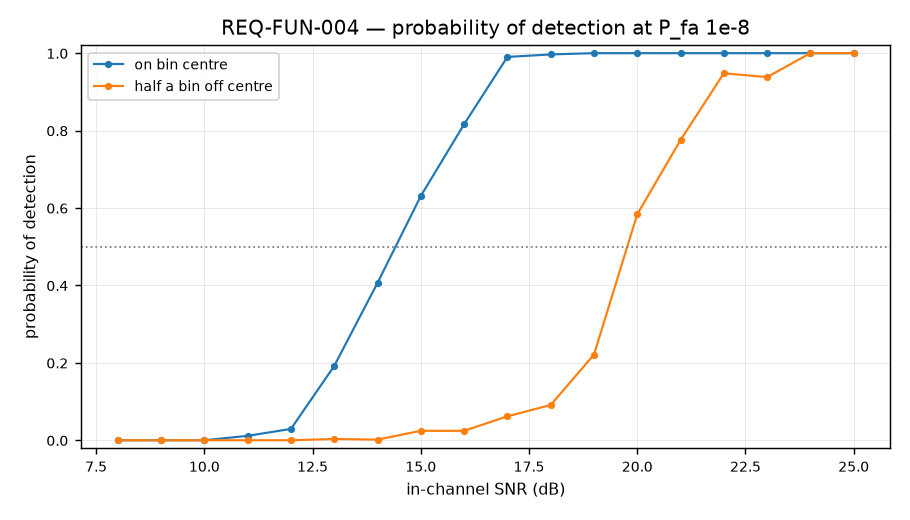
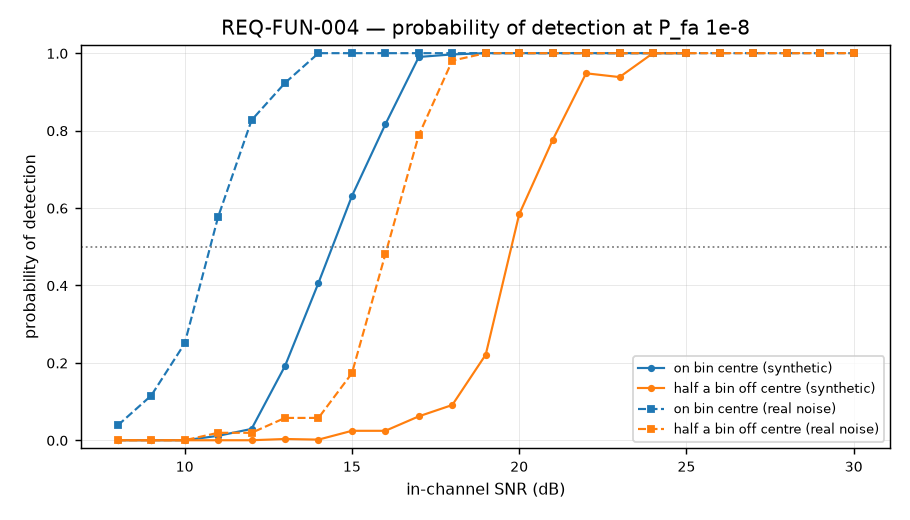
feat(vv): measure detection probability against real receiver noise (#80)
An external review of this repo raised a specific, correctly-reasoned concern:
the two-hour real-noise run reporting zero false alarms over 2.88e10 cells at
a 1e-8 design point is, by rule-of-three, consistent with an operating rate
near 1e-10 -- two orders of magnitude under design. Pfa alone cannot
distinguish a well-tuned detector from a deaf one; both report zero false
alarms. Only Pd can answer that, and this project had never measured Pd
against anything but synthetic Gaussian noise.

Added a real-noise Pd(SNR) sweep to esm446-vv: a synthetic tone is injected
into tests/data/receiver_noise_lna32_vga20.cs8 (real captured receiver noise,
antenna disconnected) at a controlled in-channel SNR, referenced against that
window's own noise floor measured from the same reference-cell span (channels
6-34) the CFAR threshold itself reads -- not a wideband time-domain RMS, which
would be inflated by the local-oscillator spur at bin 0 and understate every
SNR in the sweep. 52 overlapping windows, 23 SNR points, both offsets, ~55s.

Result: real noise reaches Pd=0.5 at a *lower* SNR than synthetic noise does
(11.0 dB vs 15.0 dB on-centre, 17.0 dB vs 20.0 dB off-centre), not a higher
one. The detector is not deaf. Documented with the caveat this genuinely
needs: one real capture, receiver-only (the easy case), not yet repeated
against the harder ambient/antenna-connected vector. Full reasoning and the
open question (why real noise appears lighter-tailed than the exponential
[…]

diff --git a/esm446/vv.py b/esm446/vv.py
@@ -18,6 +18,7 @@ from __future__ import annotations
 import argparse
 import json
 import logging
+import math
 import sys
 from pathlib import Path
 from typing import Any
@@ -181,8 +182,93 @@ def figure_false_alarm_rate(results: dict[str, Any]) -> None:
     ]
 
 
+#: Real receiver noise, antenna disconnected -- see tests/test_false_alarm_on_real_noise.py.
+#: Same vector the shipped-default zero-false-alarm result uses, so the two are the same
+#: operating point measured two ways: does nothing fire on it, and does a real signal cut
+#: through it at the SNR the synthetic-noise curve predicts.
+_REAL_NOISE_PATH = Path("tests/data/receiver_noise_lna32_vga20.cs8")
+
+
+def _real_noise_iq() -> np.ndarray | None:
+    """Raw IQ from the committed receiver-noise vector, or None if it is not present."""
+    if not _REAL_NOISE_PATH.exists():
+        return None
+    raw = np.fromfile(_REAL_NOISE_PATH, dtype=np.int8)
+    return (raw.astype(np.float32) / 128.0).view(np.complex64)
+
+
+def _tone_gain(window: int) -> float:
+    """Channel-20 power produced by a unit-amplitude tone, for converting SNR to amplitude.
+
+    Calibrated once against the channeliser itself rather than assumed, so it is exactly
+    right for this configuration instead of approximately right from a formula.
+    """
+    t = np.arange(window) / CONFIG.sample_rate
+    tone = np.exp(2j * np.pi * 20 * CONFIG.channel_spacing * t).astype(np.complex64)
+    spectra = PolyphaseChannelizer(CONFIG).process(tone)
+    power = (np.abs(spectra[1000:]) ** 2).astype(np.float64)
+    return float(power[:, 20].mean())
+
+
+def _real_noise_floor(noise: np.ndarray, start: int, window: int) -> float:
+    """This window's own in-channel noise floor, away from the DC spur and the target bins.
+
+    Computed from the real receiver noise alone, before any tone is added -- the reference
+    the injected tone's SNR is measured against, not a wideband time-domain RMS. Wideband RMS
+    would be dominated by the local-oscillator spur at bin 0 (28 dB over the floor, per
+    tests/test_false_alarm_on_real_noise.py) and so would systematically overstate the noise
+    the target channel actually carries, making every SNR in this sweep too generous.
+
+    Read from bins 6-34, the same reference-cell span `CfarConfig`'s defaults (24 reference
+    cells, 2 guard either side) actually use to threshold channel 20 -- not some other, more
+    convenient part of the spectrum. A receiver's noise floor is not obliged to be flat with
+    frequency, and referencing SNR against a different span than the detector's own threshold
+    sees would make the two numbers describe different things while looking like the same
+    measurement.
+    """
+    segment = noise[start : start + window].astype(np.complex64)
+    spectra = PolyphaseChannelizer(CONFIG).process(segment)
+    power = (np.abs(spectra[1000:]) ** 2).astype(np.float64)
+    reference_bins = np.r_[6:18, 22:34]
+    return float(np.median(power[:, reference_bins]))
+
+
+def _real_noise_trial(
+    noise: np.ndarray,
+    start: int,
+    window: int,
+    offset_bins: float,
+    snr_db: float,
+    noise_floor: float,
+    gain: float,
+) -> np.ndarray:
+    """A window of real receiver noise with a synthetic tone added at a controlled in-channel SNR.
+
+    The tone's amplitude is solved from this window's own measured noise floor and the
+    channeliser's own measured gain, not a formula carried over from the synthetic case --
+    the point is to ask whether the detector reaches the SNR the synthetic curve predicts
+    against noise this receiver actually produced, non-Gaussian tails and all.
+    """
+    segment = noise[start : start + window]
+    t = np.arange(window) / CONFIG.sample_rate
+    frequency = (20 + offset_bins) * CONFIG.channel_spacing
+    target_power = (10 ** (snr_db / 10)) * noise_floor
+    amplitude = math.sqrt(target_power / gain)
+    tone = amplitude * np.exp(2j * np.pi * frequency * t)
+    return (segment + tone).astype(np.complex64)
+
+
 def figure_detection_probability(results: dict[str, Any]) -> None:
-    """Probability of detection against SNR, on centre and at the worst offset."""
+    """Probability of detection against SNR, on synthetic noise and on real receiver noise.
+
+    The synthetic curve alone answers "does the CFAR math work". It cannot answer whether real
+    receiver noise costs anything beyond what Pfa already measures, because Pfa alone cannot
+    distinguish a well-tuned detector from a deaf one -- both report zero false alarms. This
+    repeats the same sweep against real, captured receiver noise (antenna disconnected, the
+    same vector the shipped-default zero-false-alarm result uses) with the tone added on top
+    at a controlled SNR, so a gap between the two curves is the real cost the synthetic figure
+    cannot see.
+    """
     import matplotlib.pyplot as plt
 
     snrs = np.arange(8, 26, 1.0)
@@ -198,12 +284,56 @@ def figure_detection_probability(results: dict[str, Any]) -> None:
             detected.append(float(mask[:, 19:23].any(axis=1).mean()))
         curves[label] = detected
 
+    real_noise = _real_noise_iq()
+    real_curves: dict[str, list[float]] = {}
+    if real_noise is not None:
+        window = 1 << 17
+        starts = list(range(0, len(real_noise) - window, 40_000))
+        real_snrs = np.arange(8, 31, 1.0)
+        gain = _tone_gain(window)
+        noise_floors = [_real_noise_floor(real_noise, start, window) for start in starts]
+        for label, offset in (("on bin centre", 0.0), ("half a bin off centre", 0.5)):
+            detected = []
+            for snr in real_snrs:
+                hits = []
+                for start, noise_floor in zip(starts, noise_floors):
+                    trial = _real_noise_trial(
+                        real_noise, start, window, offset, float(snr), noise_floor, gain
+                    )
+                    spectra = PolyphaseChannelizer(CONFIG).process(trial)
+                    power = (np.abs(spectra[1000:]) ** 2).astype(np.float64)
+                    detector = CfarDetector(CfarConfig(pfa=1e-8, method="os"))
+                    mask = detector.detection_mask(power)
+                    hits.append(bool(mask[:, 19:23].any(axis=1).any()))
+                detected.append(float(np.mean(hits)))
+            real_curves[label] = detected
+        results["real_noise_trials"] = len(starts)
+
     figure, axis = plt.subplots(figsize=(7, 4))
+    colours = {"on bin centre": "tab:blue", "half a bin off centre": "tab:orange"}
     for label, values in curves.items():
-        axis.plot(snrs, values, "o-", markersize=3, linewidth=1.2, label=label)
+        axis.plot(
+            snrs,
+            values,
+            "o-",
+            markersize=3,
+            linewidth=1.2,
+            color=colours[label],
+            label=f"{label} (synthetic)",
+        )
+    for label, values in real_curves.items():
+        axis.plot(
+            real_snrs,
+            values,
+            "s--",
+            markersize=3,
+            linewidth=1.2,
+            color=colours[label],
+            label=f"{label} (real noise)",
+        )
     axis.axhline(0.5, color="grey", linestyle=":", linewidth=1)
     axis.set_ylim(-0.02, 1.02)
-    axis.legend(fontsize=8)
+    axis.legend(fontsize=7)
     _style(
         axis,
         "REQ-FUN-004 — probability of detection at P_fa 1e-8",
@@ -213,6 +343,13 @@ def figure_detection_probability(results: dict[str, Any]) -> None:
     figure.tight_layout()
     figure.savefig(FIGURES / "04_detection_probability.png", dpi=130)
     plt.close(figure)
+
+    for label, values in real_curves.items():
+        crossing = next((real_snrs[i] for i, v in enumerate(values) if v >= 0.5), float("nan"))
+        key = "centred" if "centre" in label and "off" not in label else "offset"
+        results[f"pd50_real_noise_{key}_db"] = (
+            None if np.isnan(crossing) else round(float(crossing), 1)
+        )
 
     for label, values in curves.items():
         crossing = next((snrs[i] for i, v in enumerate(values) if v >= 0.5), float("nan"))

diff --git a/docs/05_vv_report.md b/docs/05_vv_report.md
@@ -135,14 +135,51 @@ deaf or fired constantly, and neither failure announces itself.
 
 ![Probability of detection](figures/04_detection_probability.png)
 
-| | SNR for P<sub>d</sub> = 0.5 |
-|---|---|
-| On a bin centre | **15.0 dB** in-channel |
-| Half a bin off centre | **20.0 dB** in-channel |
+| | SNR for P<sub>d</sub> = 0.5, synthetic noise | SNR for P<sub>d</sub> = 0.5, real receiver noise |
+|---|---|---|
+| On a bin centre | **15.0 dB** in-channel | **11.0 dB** |
+| Half a bin off centre | **20.0 dB** in-channel | **17.0 dB** |
 
 Both at P<sub>fa</sub> = 1e-8 per cell per frame — which at 160 bins and a 25 kHz frame rate
 is four million cells a second, so 1e-8 is roughly one false alarm every three hours rather
 than the 400 a second a textbook 1e-4 would produce here.
+
+### Why a real-noise curve exists at all
+
+A P<sub>fa</sub> figure alone cannot tell a well-tuned detector from a deaf one — both report
+zero false alarms. The two-hour indoor run above found zero crossings over 2.88e10 cells
+against a 1e-8 design point, which by itself is also consistent with a threshold sitting
+higher than intended: rule-of-three on zero events in that many trials bounds the *measured*
+rate near 1e-10, two orders of magnitude under design, and a threshold that conservative would
+also cost detection range. That is a real, correctly-reasoned concern, and P<sub>fa</sub>
+cannot answer it. Only P<sub>d</sub> can.
+
+So the same sweep behind the synthetic curve was repeated against
+`tests/data/receiver_noise_lna32_vga20.cs8` — real captured receiver noise, antenna
+disconnected, the same vector the zero-false-alarm result uses — with a synthetic tone added
+on top at a controlled in-channel SNR, referenced against that window's own noise floor
+measured from the same reference-cell span (channels 6–34) the CFAR threshold itself reads,
+not a wideband time-domain RMS, which would be inflated by the local-oscillator spur at bin 0
+and would understate every SNR in the sweep. 52 overlapping windows across the 1.1-second
+vector, at each of 23 SNR points, two offsets.
+
+**The result answers the concern the wrong way round: real receiver noise reaches P<sub>d</sub>
+= 0.5 at a *lower* SNR than synthetic noise does, not a higher one — 11.0 dB against 15.0 dB
+on-centre, 17.0 dB against 20.0 dB off-centre.** The detector is not deaf. Read together with
+the near-zero real P<sub>fa</sub>, the coherent explanation is that this receiver's real noise,
+after channelising, is *less* heavy-tailed than the exponential-power distribution the CFAR
+threshold factor is derived for — tighter around its own floor, so both fewer noise-only
+crossings and more reliable signal-plus-noise crossings follow from the same cause. That
+explanation is plausible and consistent with what was measured, but it is **not confirmed**:
+it would take a measured amplitude distribution of the real noise, compared against the
+exponential assumption directly, to settle it, and that has not been done.
+
+**What this does not cover.** The vector used is receiver-only noise with the antenna
+disconnected — the easy case, not the harder one. `ambient_noise_lna32_vga40.cs8`, band noise
+at high gain with a real antenna and no emission, is the vector that originally exposed the
+held-noise-estimate defect and is neither Gaussian nor stationary; repeating this sweep
+against it, at the gain it was captured at, is the next real-noise validation this project
+needs and was not run in this session for lack of time, not because it was judged unnecessary.
 
 ---
 
